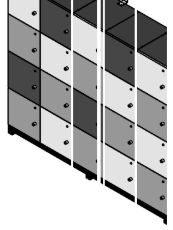
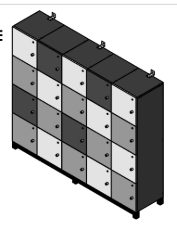
«Qué falta por cortar»: sin imágenes de texto; sin dibujo bueno va el folio o modelo
Leonardo vio imágenes que eran texto (FD-6061 salía como notas de la carátula). Revisión a ojo de las 1,087:
- 13 se corrigen con el isométrico de la especificación del folio o del modelo (F4898, F5022, F6061, F6062,
  F6506, F6514, F6525, F6694, F6737, F6739, F6760, F6783 y 1010-1).
- 30 se quitan porque su «foto» es una página de texto, un folleto o un recorte inservible (BST-308,
  BTS-ESH303, 523, 524, 527, BL180S, 1092, 534-150-X-60-X-150 y 22 accesorios PBM*).
Cuando un modelo no tiene imagen (o no carga), el recuadro muestra el folio o modelo: FD-6061-B → FD-6061,
CUBSETT-L150 → CUBSETT-L150. Quedan 1,057 imágenes.

diff --git a/assets/modelos/indice.js b/assets/modelos/indice.js
@@ -1,2 +1,2 @@
 /* Imagenes de muebles para el panel "Que falta por cortar". Generado por generar-ingenieria.ps1 (Programa-Troqueles\herramientas). No editar a mano. */
-window.MODELOS_IMG = {"gen":"2026-11-12","keys":["1000","1000-1","1001","1001-1","1002","1003","1004","1005","1006","1007","1008","1009","1010","1010-1","1011","1012","1013","1014","1015","1016","1017","1018","1020","1021","1022","1023","1024","1025","1026","1027","1028","1030","1031","1032","1033","1034","1035","103S","1040","1041","1042","1043","1044","1045","105","1050","1051","1052","1053","1054","1055","106","1060","1061","1062","1063","1064","1065","106XL","107","1070","1071","1072","1073","1074","1090","1091","1092","1094","1095","1096","1097","1098","1099","1100","1101","1103","1109","111","1113","1114","1120","1122","1123","1124","113","1130","114","1140","1150","1151","1152","1153","1154","1155","1156","1157","1158","1158-BIO","115C","116","1160","117","118","118XL","1200","1200-1","1201","1201-1","1202","1202-1","1203","1204","1205","1206","1207","1208","1209","120S","121","1210","1210-1","1210-BENCHING-120-X-150-VETTA","1211","1211-1","1212","1212-1","1213","1214","1215","1216","1217","1218","123S","1260","1261","1262","1263","1264","1265","1266","127SKT","127-SKT","129","1300","1301","1302","1303","1304","1305","1306","1310","1311","1312","1320","1321","1322","1323","1324","1325","1326","132D","133","134","135","135-BIO","137-CPU","138","140","141S","145","148","149S","150","151","153S","165","168","175","181","183","184","185","185-BLOQUEADO-","186","187","188","199","2000","2001","2002","2003","2004","2005","2006","2007","2008","2009","2010","2011","2012","2013","2014","2015","2020","2021","2022","2023","2024","2025","2026","2027","2040","2041","2042","2043","2044","2045","205","2050","2051","2052","2053","2054","2055","2060","2061","2062","2063","2080","2081","2100","2101","2102","2103","2104","2105","2106","2107","2108","2109","210S","2110","2111","2112","212","217","21810","21814","21822","2200","2201","2202","2203","2204","2205","2206","2207","2208","2209","220A","220AP","220P","220PP","221","2210","2211","2212","2213","2214","223","225","226","227","228","229","233","2335","234","2340","2341","2342","2343","2344","2345","2346","2347","2348","2349","235","236","2360","2361","2362","2363","2364","2365","2366","2367","2368","237","238","239","243","244","246","247","261","261D","263","264","265","272","278","285","285-BLOQUEADO-","302","303","304","305","309","310","313","314","319","320","321","322","379","379-CAMBIO-DE-TUBULAR-","461","509","516","517","518","519","520","521","523","524","525","526","527","528","529","530","531","533","533-BIO","534-150-X-60-X-150","535","543","544","545","546","547","550","551","552","553","554","555","556","557","558","559","560","590","591","592","593","593-594-595","594","595","596","596-597-598","597","598","600","601","602","603","604","605","605-BIO","606","606-BIO","607","608","609","610","611","612","615","616","617","618","619","620","623","624","625","626","627","628","629","630","631","632","633","634","635","636","637","639","640","641","643","644","644-RECTO-","645","645-RECTO-","646","647","648","649","650","650-BIO","651","652","653","654","655","656","657","658","666","667","669","677","678","679","680","681","682","683","685","702","705","716","719","719GL","731","732","735","736","736-RECTO-","737","737-RECTO-CON-CAMBIO-DE-POSTE-1-5-X1-5-A-2X2","746-FT","762C","768","769","770","772","773","774","775","776","777","778","779","782","783","792","794","795","796","797","798","803","804","805","806","807","808","809","810","811","813","846","910","911","912","913","914","915","916","917","A438G","A441N","A442N","A516S","A831N","A840TE","AC-120120","AC-120150","AC-120180","AC-140120","AC-140150","AC-140180","AC-180120","AC-180150","AP-120120","AP-120150","AP-120180","AP-140120","AP-140150","AP-140180","AP-180120","AP-180150","BL180S","BST-308","BTS-ESH303","BTS-SS202","CM437N","CM516N","CM516S","CM658","CM667","CM833N","CM834N","CM835G","CM835N","CM836N","CR666","CR667","CUB12060","CUB15060","CUB6060","CUB7560","CUB9060","CUBES9090","CUBP12060","CUBP15060","CUBP6060","CUBP7560","CUBP9060","CUBREP120","CUBREP90","CUBSETT-B120","CUBSETT-B150","CUBSETT-B180","CUBSETT-B60","CUBSETT-B90","CUBSETT-DSK120","CUBSETT-DSK150","CUBSETT-DSK180","CUBSETT-ESQ","CUBSETT-LD120","CUBSETT-LD150","CUBSETT-LD180","CUBSETT-LI120","CUBSETT-LI150","CUBSETT-LI180","CUBSETT-PEN120","CUBSETT-PEN150","CUBSETT-REMATE","CUBSETT-S120","CUBSETT-S150","CUBSETT-S180","CUBSETT-S60","CUBSETT-S90","CUBTR120120","CUBTRI120","CUBTRI150","CUBTRI180","CUBTRI90","CUBTRP120120","CUBZIG120","CUBZIG150","CUBZIG180","CUBZIG90","CUR16","CUR-18","D523","D525","ESPECIFICACION-CAJA-914-310-XXXX-101","F4269","F4273","F4756","F4898","F5022","F5167","F6061","F6062","F-6231-ESPECIFICACIONES","F6500","F6501","F6502","F6503","F6504","F6505","F6506","F6507","F6508","F6509","F6510","F6511","F6512","F6514","F6515","F6516","F6517","F6518","F6519","F6520","F6521","F6522","F6523","F6524","F6525","F6526","F6527","F6528","F6529","F6530","F6531","F6532","F6533","F6534","F6535","F6536","F6537","F6538","F6539","F6540","F6541","F6542","F6543","F6544","F6545","F6546","F6547","F6548","F6549","F6550","F6553","F6554","F6555","F6556","F6557","F6558","F6559","F6560","F6561","F6562","F6563","F6564","F6565","F6566","F6567","F6568","F6569","F6570","F6571","F6572","F6573","F6574","F6576","F6577","F6578","F6579","F6580","F6581","F6582","F6583","F6584","F6585","F6586","F6587","F6588","F6589","F6590","F6591","F6592","F6593","F6594","F6595","F6596","F6597","F6598","F6599","F6600","F6601","F6602","F6603","F6604","F6605","F6606","F6607","F6609","F6610","F6611","F6612","F6613","F6614","F6615","F6616","F6617","F6618","F6619","F6620","F6621","F6622","F6623","F6624","F6625","F6626","F6627","F6628","F6629","F6630","F6631","F6632","F6633","F6634","F6635","F6636","F6637","F6638","F6639","F6640","F6641","F6642","F6643","F6644","F6645","F6646","F6647","F6648","F6649","F6650","F6651","F6652","F6653","F6654","F6655","F6656","F6657","F6658","F6659","F6660","F6661","F6662","F6664","F6665","F6666","F6667","F6668","F6669","F6670","F6671","F6672","F6673","F6674","F6675","F6676","F6677","F6678","F6680","F6681","F6682","F6683","F6684","F6685","F6686","F6687","F6688","F6689","F6690","F6691","F6692","F6693","F6694","F6696","F6697","F6698","F6699","F6700","F6701","F6702","F6703","F6704","F6705","F6706","F6707","F6708","F6709","F6710","F6711","F6712","F6713","F6714","F6715","F6717","F6718","F6719","F6720","F6721","F6722","F6723","F6724","F6725","F6726","F6727","F6728","F6729","F6730","F6731","F6732","F6733","F6734","F6735","F6736","F6737","F6738","F6739","F6740","F6741","F6742","F6743","F6744","F6745","F6746","F6747","F6748","F6749","F6750","F6751","F6752","F6753","F6754","F6755","F6756","F6757","F6758","F6759","F6760","F6761","F6762","F6763","F6764","F6766","F6767","F6768","F6769","F6770","F6771","F6772","F6773","F6774","F6775","F6776","F6777","F6779","F6780","F6781","F6782","F6783","F6784","F6785","F6786","F6787","F6788","F6789","F6791","F6792","F6793","F6794","F6797","F6798","F6799","F6802","F6804","F6810","F6816","F6819","FB122","FICHA-TECNICA","FICHA-TECNICA-319","FICHA-TECNICA-320","FICHA-TECNICA-321","FICHA-TECNICA-MINI-MAMPARA-1122","FICHA-TECNICA-MINI-MAMPARA-1123","IC-120120","IC-120150","IC-120180","IC-140120","IC-140150","IC-140180","IC-180120","IC-180150","IL-12060","IL-12075","IL-12090","IL-14060","IL-14075","IL-14090","IL-18060","IL-18075","IL-18090","IP-120120","IP-120150","IP-120180","IP-140120","IP-140150","IP-140180","IP-180120","IP-180150","IW120120","IW12060","IW12060-MADERA","IW12075","IW12090","IW160120","IW16060","IW16075","IW16090","IW6060","IW7560","IW9060","IWBSI","IWBSI120","IWBSI150","IWC120","IWCP12060","IWCP6060","IWCP7560","IWCP9060","IWES9090","IWMSI","IWPHD","IWPHI","IWREP120","IWREP90","IWTR120120","IWTRCP120120-FICHA-TECNICA","IWUT","KBS","KLASS01","KLASS-01","KLASS03","KLASS-03","KLASS03-BIO","KLASS04","KLASS-04","KMB55-75-FICHA-T-CNICA","LIT-SC802","LIT-TR757","MAMPARAS-I-WORK","MAMPARAS-I-WORK-DE-POLICARBONATO","MOB-24","MUEB120","MUEB120-CUBIERTA-RECTA-","MUEL140","MUEL140-CUBIERTA-RECTA-","MUMJ150","N154G","N251N","N379","N429N","N432N","N433N","N434N","N435N","N436N","N439N","N444N","N516N","N691G","N692G","N830N","N834N","N837N","N838N","NKB130P-FICHA-TECNICA","NKBI30P-FICHA-TECNICA","NKBI50P-FICHA-TECNICA","PATASETT","PB120","PB150","PB60","PB75","PB90","PBACRINI120","PBACRINI150","PBACRINI60","PBACRINI75","PBACRINI90","PBACRINT120","PBACRINT150","PBACRINT60","PBACRINT75","PBACRINT90","PBACRSEN120","PBACRSEN150","PBACRSEN60","PBACRSEN75","PBACRSEN90","PBMACSEN120","PBMACSEN150","PBMACSEN60","PBMACSEN75","PBMACSEN90","PBMIC120","PBMIC60","PBMIC75","PBMIC90","PBMICB120","PBMICB60","PBMICB75","PBMICB90","PBMINT120","PBMINT60","PBMINT75","PBMINT90","PBMINTB120","PBMINTB150","PBMINTB60","PBMINTB75","PBMINTB90","PBMS120","PBMS150","PBMS60","PBMS75","PBMS90","PBMSB120","PBMSB150","PBMSB60","PBMSB75","PBMSB90","PBPINT120","PBPINT150","PBPINT60","PBPINT75","PBPINT90","PBREINI120","PBREINI150","PBREINI60","PBREINI75","PBREINI90","PBREINT120","PBREINT150","PBREINT60","PBREINT75","PBREINT90","PBREMATEP","PBREMATES","PBRESEN120","PBRESEN150","PBRESEN60","PBRESEN75","PBRESEN90","PBUB","PBUI","PBUL","PBUT","PBUV","PBUX","PBUY","PIW120120","PIW12060","PIW12075","PIW12090","PIW160120","PIW16060","PIW16075","PIW16090","POST-120I","S439G","S444N","S691G","S692G","SKT","SV750","SV751"],"alias":{}};
+window.MODELOS_IMG = {"gen":"2026-11-13","keys":["1000","1000-1","1001","1001-1","1002","1003","1004","1005","1006","1007","1008","1009","1010","1010-1","1011","1012","1013","1014","1015","1016","1017","1018","1020","1021","1022","1023","1024","1025","1026","1027","1028","1030","1031","1032","1033","1034","1035","103S","1040","1041","1042","1043","1044","1045","105","1050","1051","1052","1053","1054","1055","106","1060","1061","1062","1063","1064","1065","106XL","107","1070","1071","1072","1073","1074","1090","1091","1094","1095","1096","1097","1098","1099","1100","1101","1103","1109","111","1113","1114","1120","1122","1123","1124","113","1130","114","1140","1150","1151","1152","1153","1154","1155","1156","1157","1158","1158-BIO","115C","116","1160","117","118","118XL","1200","1200-1","1201","1201-1","1202","1202-1","1203","1204","1205","1206","1207","1208","1209","120S","121","1210","1210-1","1210-BENCHING-120-X-150-VETTA","1211","1211-1","1212","1212-1","1213","1214","1215","1216","1217","1218","123S","1260","1261","1262","1263","1264","1265","1266","127SKT","127-SKT","129","1300","1301","1302","1303","1304","1305","1306","1310","1311","1312","1320","1321","1322","1323","1324","1325","1326","132D","133","134","135","135-BIO","137-CPU","138","140","141S","145","148","149S","150","151","153S","165","168","175","181","183","184","185","185-BLOQUEADO-","186","187","188","199","2000","2001","2002","2003","2004","2005","2006","2007","2008","2009","2010","2011","2012","2013","2014","2015","2020","2021","2022","2023","2024","2025","2026","2027","2040","2041","2042","2043","2044","2045","205","2050","2051","2052","2053","2054","2055","2060","2061","2062","2063","2080","2081","2100","2101","2102","2103","2104","2105","2106","2107","2108","2109","210S","2110","2111","2112","212","217","21810","21814","21822","2200","2201","2202","2203","2204","2205","2206","2207","2208","2209","220A","220AP","220P","220PP","221","2210","2211","2212","2213","2214","223","225","226","227","228","229","233","2335","234","2340","2341","2342","2343","2344","2345","2346","2347","2348","2349","235","236","2360","2361","2362","2363","2364","2365","2366","2367","2368","237","238","239","243","244","246","247","261","261D","263","264","265","272","278","285","285-BLOQUEADO-","302","303","304","305","309","310","313","314","319","320","321","322","379","379-CAMBIO-DE-TUBULAR-","461","509","516","517","518","519","520","521","525","526","528","529","530","531","533","533-BIO","535","543","544","545","546","547","550","551","552","553","554","555","556","557","558","559","560","590","591","592","593","593-594-595","594","595","596","596-597-598","597","598","600","601","602","603","604","605","605-BIO","606","606-BIO","607","608","609","610","611","612","615","616","617","618","619","620","623","624","625","626","627","628","629","630","631","632","633","634","635","636","637","639","640","641","643","644","644-RECTO-","645","645-RECTO-","646","647","648","649","650","650-BIO","651","652","653","654","655","656","657","658","666","667","669","677","678","679","680","681","682","683","685","702","705","716","719","719GL","731","732","735","736","736-RECTO-","737","737-RECTO-CON-CAMBIO-DE-POSTE-1-5-X1-5-A-2X2","746-FT","762C","768","769","770","772","773","774","775","776","777","778","779","782","783","792","794","795","796","797","798","803","804","805","806","807","808","809","810","811","813","846","910","911","912","913","914","915","916","917","A438G","A441N","A442N","A516S","A831N","A840TE","AC-120120","AC-120150","AC-120180","AC-140120","AC-140150","AC-140180","AC-180120","AC-180150","AP-120120","AP-120150","AP-120180","AP-140120","AP-140150","AP-140180","AP-180120","AP-180150","BTS-SS202","CM437N","CM516N","CM516S","CM658","CM667","CM833N","CM834N","CM835G","CM835N","CM836N","CR666","CR667","CUB12060","CUB15060","CUB6060","CUB7560","CUB9060","CUBES9090","CUBP12060","CUBP15060","CUBP6060","CUBP7560","CUBP9060","CUBREP120","CUBREP90","CUBSETT-B120","CUBSETT-B150","CUBSETT-B180","CUBSETT-B60","CUBSETT-B90","CUBSETT-DSK120","CUBSETT-DSK150","CUBSETT-DSK180","CUBSETT-ESQ","CUBSETT-LD120","CUBSETT-LD150","CUBSETT-LD180","CUBSETT-LI120","CUBSETT-LI150","CUBSETT-LI180","CUBSETT-PEN120","CUBSETT-PEN150","CUBSETT-REMATE","CUBSETT-S120","CUBSETT-S150","CUBSETT-S180","CUBSETT-S60","CUBSETT-S90","CUBTR120120","CUBTRI120","CUBTRI150","CUBTRI180","CUBTRI90","CUBTRP120120","CUBZIG120","CUBZIG150","CUBZIG180","CUBZIG90","CUR16","CUR-18","D523","D525","ESPECIFICACION-CAJA-914-310-XXXX-101","F4269","F4273","F4756","F4898","F5022","F5167","F6061","F6062","F-6231-ESPECIFICACIONES","F6500","F6501","F6502","F6503","F6504","F6505","F6506","F6507","F6508","F6509","F6510","F6511","F6512","F6514","F6515","F6516","F6517","F6518","F6519","F6520","F6521","F6522","F6523","F6524","F6525","F6526","F6527","F6528","F6529","F6530","F6531","F6532","F6533","F6534","F6535","F6536","F6537","F6538","F6539","F6540","F6541","F6542","F6543","F6544","F6545","F6546","F6547","F6548","F6549","F6550","F6553","F6554","F6555","F6556","F6557","F6558","F6559","F6560","F6561","F6562","F6563","F6564","F6565","F6566","F6567","F6568","F6569","F6570","F6571","F6572","F6573","F6574","F6576","F6577","F6578","F6579","F6580","F6581","F6582","F6583","F6584","F6585","F6586","F6587","F6588","F6589","F6590","F6591","F6592","F6593","F6594","F6595","F6596","F6597","F6598","F6599","F6600","F6601","F6602","F6603","F6604","F6605","F6606","F6607","F6609","F6610","F6611","F6612","F6613","F6614","F6615","F6616","F6617","F6618","F6619","F6620","F6621","F6622","F6623","F6624","F6625","F6626","F6627","F6628","F6629","F6630","F6631","F6632","F6633","F6634","F6635","F6636","F6637","F6638","F6639","F6640","F6641","F6642","F6643","F6644","F6645","F6646","F6647","F6648","F6649","F6650","F6651","F6652","F6653","F6654","F6655","F6656","F6657","F6658","F6659","F6660","F6661","F6662","F6664","F6665","F6666","F6667","F6668","F6669","F6670","F6671","F6672","F6673","F6674","F6675","F6676","F6677","F6678","F6680","F6681","F6682","F6683","F6684","F6685","F6686","F6687","F6688","F6689","F6690","F6691","F6692","F6693","F6694","F6696","F6697","F6698","F6699","F6700","F6701","F6702","F6703","F6704","F6705","F6706","F6707","F6708","F6709","F6710","F6711","F6712","F6713","F6714","F6715","F6717","F6718","F6719","F6720","F6721","F6722","F6723","F6724","F6725","F6726","F6727","F6728","F6729","F6730","F6731","F6732","F6733","F6734","F6735","F6736","F6737","F6738","F6739","F6740","F6741","F6742","F6743","F6744","F6745","F6746","F6747","F6748","F6749","F6750","F6751","F6752","F6753","F6754","F6755","F6756","F6757","F6758","F6759","F6760","F6761","F6762","F6763","F6764","F6766","F6767","F6768","F6769","F6770","F6771","F6772","F6773","F6774","F6775","F6776","F6777","F6779","F6780","F6781","F6782","F6783","F6784","F6785","F6786","F6787","F6788","F6789","F6791","F6792","F6793","F6794","F6797","F6798","F6799","F6802","F6804","F6810","F6816","F6819","FB122","FICHA-TECNICA","FICHA-TECNICA-319","FICHA-TECNICA-320","FICHA-TECNICA-321","FICHA-TECNICA-MINI-MAMPARA-1122","FICHA-TECNICA-MINI-MAMPARA-1123","IC-120120","IC-120150","IC-120180","IC-140120","IC-140150","IC-140180","IC-180120","IC-180150","IL-12060","IL-12075","IL-12090","IL-14060","IL-14075","IL-14090","IL-18060","IL-18075","IL-18090","IP-120120","IP-120150","IP-120180","IP-140120","IP-140150","IP-140180","IP-180120","IP-180150","IW120120","IW12060","IW12060-MADERA","IW12075","IW12090","IW160120","IW16060","IW16075","IW16090","IW6060","IW7560","IW9060","IWBSI","IWBSI120","IWBSI150","IWC120","IWCP12060","IWCP6060","IWCP7560","IWCP9060","IWES9090","IWMSI","IWPHD","IWPHI","IWREP120","IWREP90","IWTR120120","IWTRCP120120-FICHA-TECNICA","IWUT","KBS","KLASS01","KLASS-01","KLASS03","KLASS-03","KLASS03-BIO","KLASS04","KLASS-04","KMB55-75-FICHA-T-CNICA","LIT-SC802","LIT-TR757","MAMPARAS-I-WORK","MAMPARAS-I-WORK-DE-POLICARBONATO","MOB-24","MUEB120","MUEB120-CUBIERTA-RECTA-","MUEL140","MUEL140-CUBIERTA-RECTA-","MUMJ150","N154G","N251N","N379","N429N","N432N","N433N","N434N","N435N","N436N","N439N","N444N","N516N","N691G","N692G","N830N","N834N","N837N","N838N","NKB130P-FICHA-TECNICA","NKBI30P-FICHA-TECNICA","NKBI50P-FICHA-TECNICA","PATASETT","PB120","PB150","PB60","PB75","PB90","PBACRINI120","PBACRINI150","PBACRINI60","PBACRINI75","PBACRINI90","PBACRINT120","PBACRINT150","PBACRINT60","PBACRINT75","PBACRINT90","PBACRSEN120","PBACRSEN150","PBACRSEN60","PBACRSEN75","PBACRSEN90","PBMACSEN120","PBMACSEN150","PBMACSEN60","PBMACSEN75","PBMACSEN90","PBMIC120","PBMIC60","PBMIC75","PBMIC90","PBMICB120","PBPINT120","PBPINT150","PBPINT60","PBPINT75","PBPINT90","PBREINI120","PBREINI150","PBREINI60","PBREINI75","PBREINI90","PBREINT120","PBREINT150","PBREINT60","PBREINT75","PBREINT90","PBREMATEP","PBREMATES","PBRESEN120","PBRESEN150","PBRESEN60","PBRESEN75","PBRESEN90","PBUB","PBUI","PBUL","PBUT","PBUV","PBUX","PBUY","PIW120120","PIW12060","PIW12075","PIW12090","PIW160120","PIW16060","PIW16075","PIW16090","POST-120I","S439G","S444N","S691G","S692G","SKT","SV750","SV751"],"alias":{}};

diff --git a/index.html b/index.html
@@ -551,7 +551,10 @@ a.nav-item,a.nav-item-mini{text-decoration:none}
 .pend-tx{display:flex;flex-direction:column;gap:2px;min-width:0;flex:1}
 .pend-img{width:72px;height:54px;flex-shrink:0;object-fit:contain;background:#fff;border-radius:6px;padding:2px}
 .pend-img.sin{background:var(--bg2);border:1px dashed var(--border);padding:0}
+/* Sin imagen confiable: en el recuadro va el folio o modelo (FD-6061, CUBSETT-L150) */
+.pend-img.et{display:flex;align-items:center;justify-content:center;text-align:center;padding:3px;font:600 10.5px/1.15 'IBM Plex Mono',monospace;color:var(--text2);overflow-wrap:anywhere;overflow:hidden}
 #page-dashboard:fullscreen .pend-img{width:104px;height:78px}
+#page-dashboard:fullscreen .pend-img.et{font-size:13px}
 .pend-vp{position:relative;overflow:hidden;max-height:400px;flex:1;min-height:0;-webkit-mask-image:linear-gradient(to bottom,transparent 0,#000 14px,#000 calc(100% - 14px),transparent 100%);mask-image:linear-gradient(to bottom,transparent 0,#000 14px,#000 calc(100% - 14px),transparent 100%)}
 .pend-vp.static{-webkit-mask-image:none;mask-image:none}
 .pend-in.run{animation:pendUp var(--pd,30s) linear infinite;will-change:transform}
@@ -5773,6 +5776,15 @@ function parteImgKey(parte){
   for(const k of c){ const ik=modeloImgKey(k); if(ik) return ik; }
   return '';
 }
+// Texto del recuadro cuando no hay imagen: folio del especial (FD-6061-B → FD-6061) o modelo sin la letra de pieza (1003-B → 1003)
+function modeloEtiqueta(mod){
+  const M=String(mod||'').toUpperCase().replace(/^#+/,'').replace(/\s+/g,'');
+  const fm=M.match(/^(F[A-Z]?)-?(\d{3,5})/); if(fm) return fm[1]+'-'+fm[2];
+  return M.replace(/-[A-Z0-9]$/,'');
+}
+const pendEtHtml=t=>`<span class="pend-img sin et">${escH(t)}</span>`;
+// Si una imagen no carga, se cambia por el recuadro con el folio o modelo
+function pendImgFalla(el){ try{ el.outerHTML=pendEtHtml(el.getAttribute('data-et')||''); }catch(e){} }
 function dashLaserPendHtml(){
   const d=dashLaserPend();
   if(!d.anyProg) return '<div class="empty-state" style="padding:1.2rem 0">No hay programa de corte vigente para hoy en Laser.</div>';
@@ -5791,7 +5803,8 @@ function dashLaserPendHtml(){
     const tip=r.maq?`OP de maquila (SKU ${MAQUILA_LASER_DIAS} días hábiles): vence el ${fmtDMY(r.vence)}; mientras tanto no es atraso`:(r.atr?(r.maqVencida?`Maquila que venció el ${fmtDMY(r.vence)} sin cortarse: cuenta como atraso`:`OP del programa del ${fmtDMY(r.fecha)} que no se cortó: sus piezas cuentan como atraso`):'');
     const moTx=iM>=0?String(r.cells[iM]||'').trim():'', iPa=L.findIndex(l=>/^(parte|no\.? ?parte|descrip)/.test(l));
     const ik=hayImg?(modeloImgKey(moTx)||((/^\d{6,}$/.test(moTx)||!moTx)&&iPa>=0?parteImgKey(r.cells[iPa]):'')):'';
-    const img=hayImg?(ik?`<img class="pend-img" src="assets/modelos/${encodeURIComponent(ik)}.jpg" alt="" loading="lazy" onerror="this.className='pend-img sin';this.removeAttribute('src')">`:'<span class="pend-img sin"></span>'):'';
+    const et=modeloEtiqueta(moTx);
+    const img=hayImg?(ik?`<img class="pend-img" src="assets/modelos/${encodeURIComponent(ik)}.jpg" alt="" loading="lazy" data-et="${escH(et)}" onerror="pendImgFalla(this)">`:pendEtHtml(et)):'';
     return `<div class="pend-row${r.maq?' maq':(r.atr?' atr':'')}${hayImg?' ci':''}"${tip?` title="${escH(tip)}"`:''}>${img}${hayImg?'<div class="pend-tx">':''}<div class="pend-l1"><span class="pend-m${mcls(r.m)}">${escH(r.m)}</span>${hayImg?'':tag}${op>=0&&r.cells[op]?`<span class="op">${escH(r.cells[op])}</span>`:''}${iM>=0&&r.cells[iM]?`<span class="mo" title="${escH(r.cells[iM])}">${escH(r.cells[iM])}</span>`:''}${iQ>=0?`<span class="n"${r.av>0?` title="Faltan ${fmtN(r.falta,0)} · ya van ${fmtN(r.av,0)} de ${fmtN(r.qOP,0)} (avance parcial)"`:''}>${r.av>0?fmtN(r.falta,0):escH(r.cells[iQ])}<small>${r.maq?'pzas maquila':(r.atr?'pzas atraso':'pzas')}${r.av>0?` · van ${fmtN(r.av,0)}/${fmtN(r.qOP,0)}`:''}</small></span>`:''}</div>${(rest.length||(hayImg&&tag))?`<div class="pend-l2">${hayImg&&tag?tag+' ':''}${rest.join(' · ')}</div>`:''}${hayImg?'</div>':''}</div>`;
   }).join('');
   // Faltan por cortar hoy = OPs de los programas de hoy (o del vigente) que aún no se cortan; el atraso (días anteriores) y la maquila van aparte
